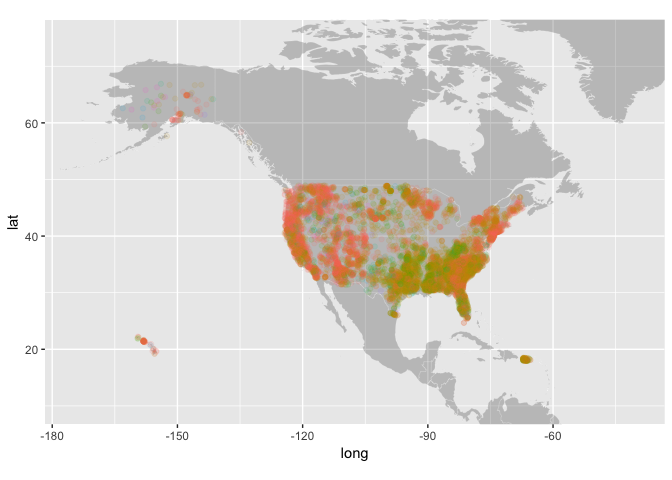
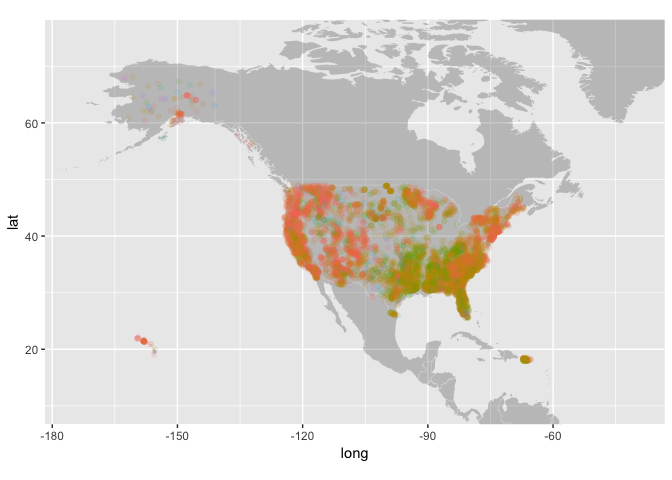
Commit via RMarkdown

diff --git a/README.md b/README.md
@@ -5,7 +5,7 @@ Elias M Guerra
 
 December 2017
 
-First we'll load the necessary packages, download the dataset and cut it down to size.
+First we'll load the necessary packages, download the dataset, and cut it down to size.
 
 ``` r
 library(dplyr)
@@ -33,7 +33,7 @@ ff <- fread('~/Documents/r/math216/fires_shortversion.csv')
 ```
 
     ## 
-    Read 57.4% of 1880465 rows
+    Read 74.4% of 1880465 rows
     Read 1880465 rows and 9 (of 9) columns from 0.105 GB file in 00:00:03
 
 ``` r
@@ -60,8 +60,8 @@ world <- map_data("world")
 ggplot() + 
   geom_map(data=world, map=world, aes(x=long, y=lat, map_id=region), color="white", size=0.05, alpha=1/4) + 
   geom_point(data = sample_n(ff, 10000), aes(longitude, latitude, color = fire_size_class), alpha = .1) +
-  ylim(10,75) + xlim(-175,-40) +
   coord_quickmap() +
+  ylim(10,75) + xlim(-175,-40) +
   guides(color = "none")
 ```
 
@@ -98,7 +98,12 @@ ggplot() +
   geom_map(data=world, map=world, aes(x=long, y=lat, map_id=region), color="white", size=0.05, alpha=1/4) +
   geom_point(data = ff[ff$fire_size_class %in% c("F", "G"),], aes(longitude, latitude, color = fire_size_class), alpha = .1) +
   ylim(10,75) + xlim(-175,-40) +
-  coord_quickmap() 
+  coord_quickmap() +
+  guides(color = "none")
 ```
 
 ![](README_files/figure-markdown_github-ascii_identifiers/unnamed-chunk-4-2.png)
+
+#### References
+
+Short, Karen C. 2017. Spatial wildfire occurrence data for the United States, 1992-2015 \[FPA\_FOD\_20170508\]. 4th Edition. Fort Collins, CO: Forest Service Research Data Archive. <https://doi.org/10.2737/RDS-2013-0009.4>
